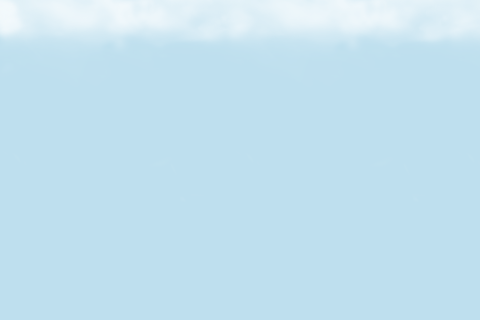
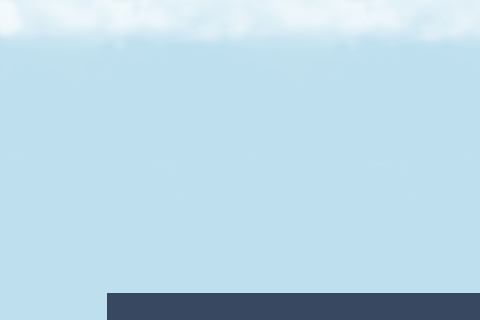
level 2 improv

Changed region(s): [[0.2188, 0.9062, 1.0, 1.0]]

diff --git a/Classes/LevelTwoScene.m b/Classes/LevelTwoScene.m
@@ -64,12 +64,12 @@
 		[self addChild:donkey];
 		
 		CCSprite *water = [CCSprite spriteWithFile:@"vand.png"];
-		water.position = ccp(480.0f/2+230, 10);
+		water.position = ccp(480.0f/2+130, 140);
 		[self addChild:water];
-		[water runAction:[CCWaves3D actionWithWaves:100000 amplitude:40.0 grid:ccg(20,20) duration:200000]];
+		[water runAction:[CCWaves3D actionWithWaves:100000 amplitude:40.0 grid:ccg(10,10) duration:200000]];
 		
 		CCSprite *foreground = [CCSprite spriteWithFile:@"bane-2-forgrund.png"];
-		foreground.position = ccp(70, 120);
+		foreground.position = ccp(300, 110);
 		[self addChild:foreground];
 		
 
